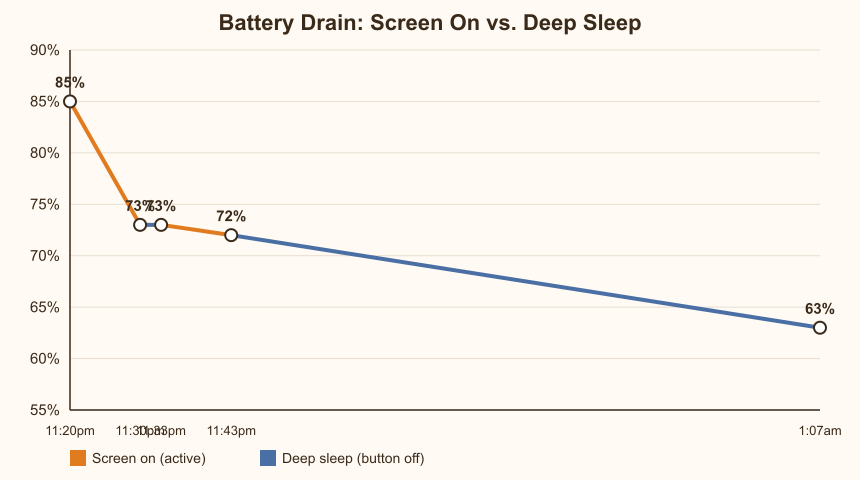
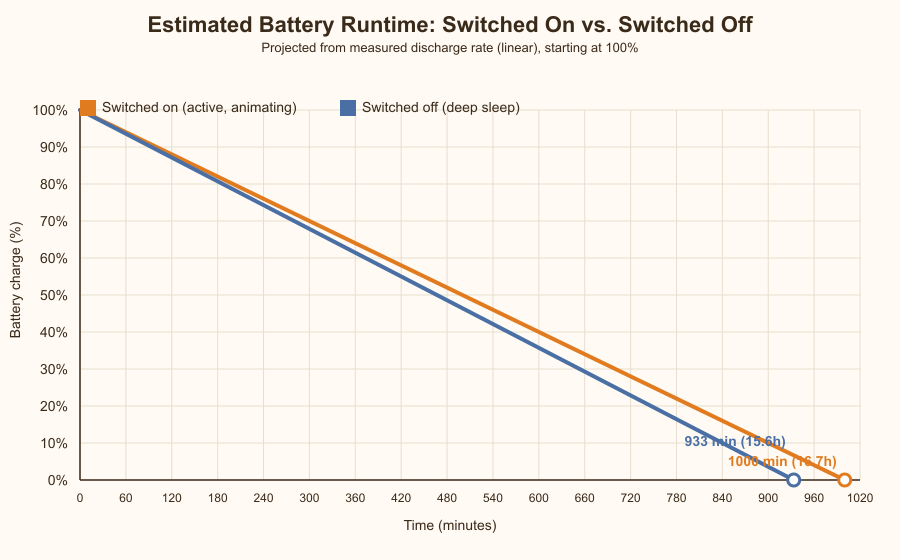
Replace battery chart with a runtime projection, drop raw data table
Swap the raw event-timeline chart for a single time-vs-charge projection
showing estimated full runtime on vs. off, computed from the measured
discharge rates. The raw clock-time readings are still used as the basis
for the numbers but no longer shown as a table in the README.

diff --git a/README.md b/README.md
@@ -194,17 +194,12 @@ anything else in the firmware.
 Here's where it gets honest. A real timed test was run on the physical
 device — checking the on-screen battery percentage at specific clock
 times, some stretches with the screen actively on and animating, some
-stretches with the board put into deep sleep via the power button:
+stretches with the board put into deep sleep via the power button. Using
+the cleanest settled readings from that test as a discharge rate
+(~6%/hour switched on, ~6.4%/hour in deep sleep), here's what that
+projects to as a full runtime from 100% to 0%:
 
-| Time | Battery | State just before this reading |
-|---|---|---|
-| 11:20pm | 85% | (start of test, screen on) |
-| 11:30pm | 73% | Screen on for 10 minutes |
-| 11:33pm | 73% | Deep sleep for 3 minutes |
-| 11:43pm | 72% | Screen on for 10 minutes |
-| 1:07am | 63% | Deep sleep for ~84 minutes (via a quick check at 12:03am) |
-
-![Battery drain chart: screen on vs deep sleep](docs/battery_chart.png)
+![Estimated battery runtime: switched on vs switched off](docs/battery_chart.png)
 
 ### What this actually shows
 
